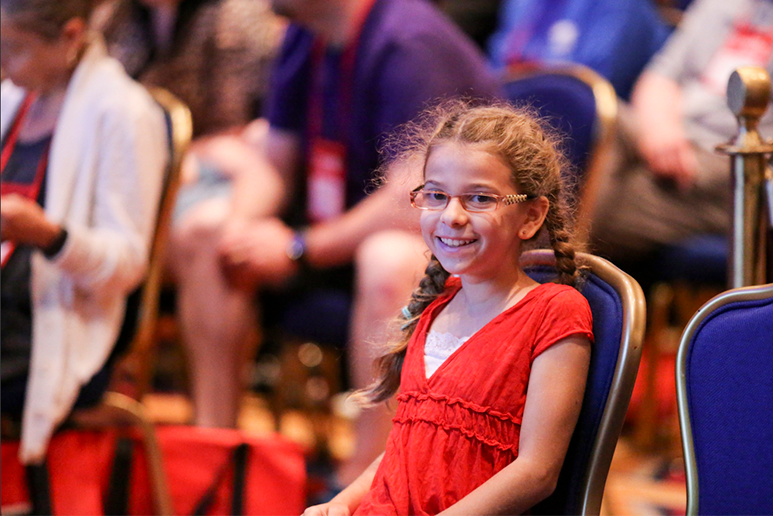
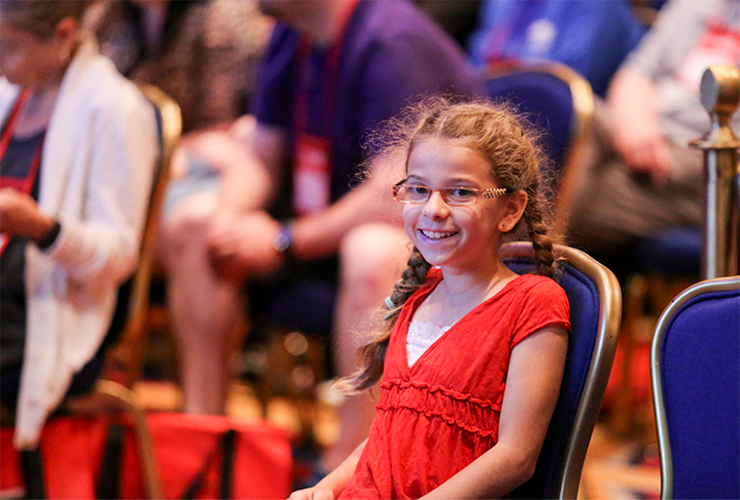
4-13 image update

diff --git a/index.html b/index.html
@@ -11,9 +11,10 @@
 <body>
 	<div id="container">
 		<header class="clearfix">
+						<p>Laura is a freelance photographer living in Washington, D.C.</p>
+
 			<nav class="clearfix">
 				<ul>
-					<li class="nav-item"><a href="#">About</a></li>
 					<li class="nav-item"><a href="#work" class='scroll'>Work</a></li>
 					<li class="nav-item"><a href="#travel" class='scroll'>Travel</a></li>
 					<li class="nav-item"><a href="#food" class='scroll'>Food</a></li>
@@ -23,9 +24,7 @@
 			</nav>
 		</header>
 		<main class="clearfix">
-		<section class="clearfix" id="about">
-			<p>Laura is a freelance photographer living in Washington, D.C.</p>
-		</section>
+		
 		<section class="clearfix" id="event">
 		<div class="container carousel-wrapper">
 			<a name="work" class="scroll"></a>
@@ -39,9 +38,8 @@
 		</section>
 		<section class="clearfix" id="travel">
 			<a name="travel" class="scroll"></a>
-			<h4>Travel </h4>
 			<div id="carousel-view-travel">
-				<img id="travel" src="images/travel/travel1.jpg" />
+				<img id="travel" src="images/travel/travel1.jpg"  />
 			</div>
 			<button class="btn btn-default" id="previous-travel">Previous</button>
 			<button class="btn btn-default" id="next-travel">Next</button>
@@ -49,8 +47,6 @@
 		</section>
 		<section class="clearfix" id="food">
 			<a name="food" class='scroll'></a>
-			<h4>Food </h4>
-
 			<div id="carousel-view-food">
 				<img id="food" src="images/food/food1.jpg" />
 			</div>
@@ -61,6 +57,14 @@
 		<section class="clearfix" id="connect">
 			<a name="connect" class='scroll'></a>
 			<h4>Connect</h4>
+			<form id="contactForm">
+				<input type="text" name="name" placeholder="Name">
+
+				<input type="email" name="emailAddress" placeholder="Email">
+
+				<input type="submit" value="Let's Talk!">
+			</form>
+			<div id="successMessage" class="success hide"></div>
 			
 		</section>
 

diff --git a/js/index.js b/js/index.js
@@ -40,6 +40,7 @@ function createWorkHTML (workPhoto) {
 
 
 	function showNextImage() {
+		event.preventDefault();
 		carouselIndex++;
 
 		if (carouselIndex > workImageHTML.length - 1) {
@@ -99,6 +100,7 @@ function createTravelHTML (travelPhoto) {
 
 
 	function showNextImage() {
+		event.preventDefault();
 		carouselIndex++;
 
 		if (carouselIndex > travelImageHTML.length - 1) {
@@ -112,6 +114,7 @@ function createTravelHTML (travelPhoto) {
 	}
 
 	function showPreviousImage() {
+		event.preventDefault();
 		carouselIndex--;
 
 		if (carouselIndex < 0) {
@@ -132,8 +135,10 @@ $(document).ready(function() {
 		'food1',
 		'food2',
 		'food3',
-		'food4',
-		'food5'
+		'food5',
+		'food6',
+		'food7',
+		'food8'
 	];
 
 function createFoodHTML (foodPhoto) {
@@ -158,6 +163,7 @@ function createFoodHTML (foodPhoto) {
 
 
 	function showNextImage() {
+		event.preventDefault();
 		carouselIndex++;
 
 		if (carouselIndex > foodImageHTML.length - 1) {
@@ -171,6 +177,7 @@ function createFoodHTML (foodPhoto) {
 	}
 
 	function showPreviousImage() {
+		event.preventDefault();
 		carouselIndex--;
 
 		if (carouselIndex < 0) {

diff --git a/css/main.css b/css/main.css
@@ -37,7 +37,7 @@ section,
 footer
 {
     border: 1px solid gray;
-    background-color: black;
+    background-color: none;
     margin: 20px;
 }
 
@@ -54,27 +54,43 @@ body {
     width: 798px;
 }
 header {
-     position: fixed;
      width: 100%;
      margin: 0 0;
+}
+nav {
+     position: fixed;
+     width: 100%;
+
 }
 .nav-item {
     width: 20%;
     float: left;
+    text-align: right;
+    background-color: transparent;
 }
 
 nav a:link {
     text-decoration: none;
-    color: blue;
+    color: gray;
 }
 
 nav ul {
 	list-style: none;
 
 }
+section {
+    text-align: center;
+}
 
 section .photo {
-    height: 600px;
+    height: 100%;
+    max-width: 100%;
+}
+
+
+#food img {
+    height: 500px;
+    max-width: 100%;
 }
 #about {
     height: 100px;
@@ -83,11 +99,7 @@ section .photo {
     margin: 0 20 20 0;
 }
 img {
-    height: 600px;
-    margin: auto;
-}
-.travel img {
-    height: 600px;
+    max-width: 100%;
 }
 
 h4 {
@@ -96,6 +108,12 @@ h4 {
 section p {
     padding: 10px;
     font-size: 1.2rem;
+}
+
+form {
+    text-align: center;
+    font-size: 14;
+
 }
 
 footer {
